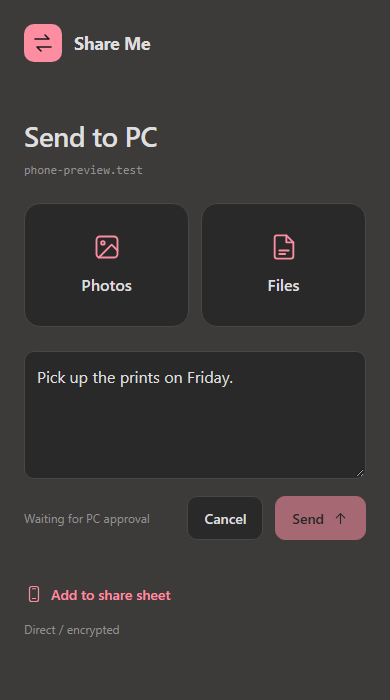
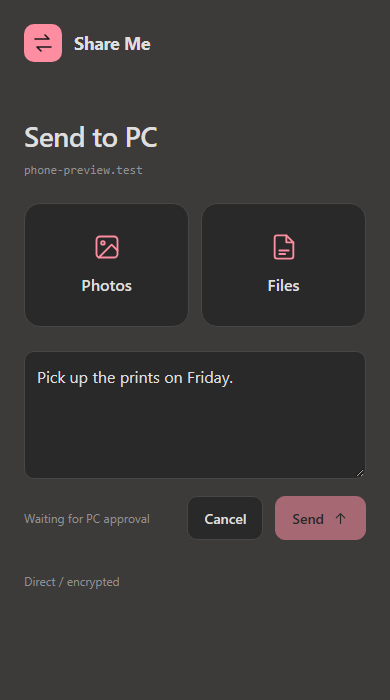
Remove Apple Shortcut from v1
Keep browser-based WebRTC transfers and the physical iPhone mDNS fallback while removing the Shortcut UI, SSH receiver, publishing tooling, assets, tests, and documentation.

Copilot-Session: 09ca1453-56a3-4a68-8e90-0cbb6ac18ad1

Changed region(s): [[0.0615, 0.81, 0.4308, 0.9], [0.1846, 0.9, 0.3077, 0.93], [0.0923, 0.9, 0.1231, 0.93]]

diff --git a/index.html b/index.html
@@ -82,7 +82,6 @@
         <div class="boundary-details">
           <details><summary>What goes through the cloud?</summary><p>The phone page and encrypted connection setup use Cloudflare. Files and transfer text travel directly between paired devices over encrypted WebRTC. Internet access is needed to get connected; there is no cloud file-relay fallback.</p></details>
           <details><summary>What happens before a file is saved?</summary><p>You accept it on Windows. Share Me then checks the file, scans it with Windows Defender, and applies Windows attachment protection before saving. Files never open automatically. No scanner catches every threat; only accept files you expect.</p></details>
-          <details><summary>Can I send from the iPhone share sheet?</summary><p>A reusable Apple Shortcut is in development. It isn't published yet; Apple signing and real-iPhone setup checks are still required. Use the phone page for now.</p></details>
         </div>
       </section>
     </main>
